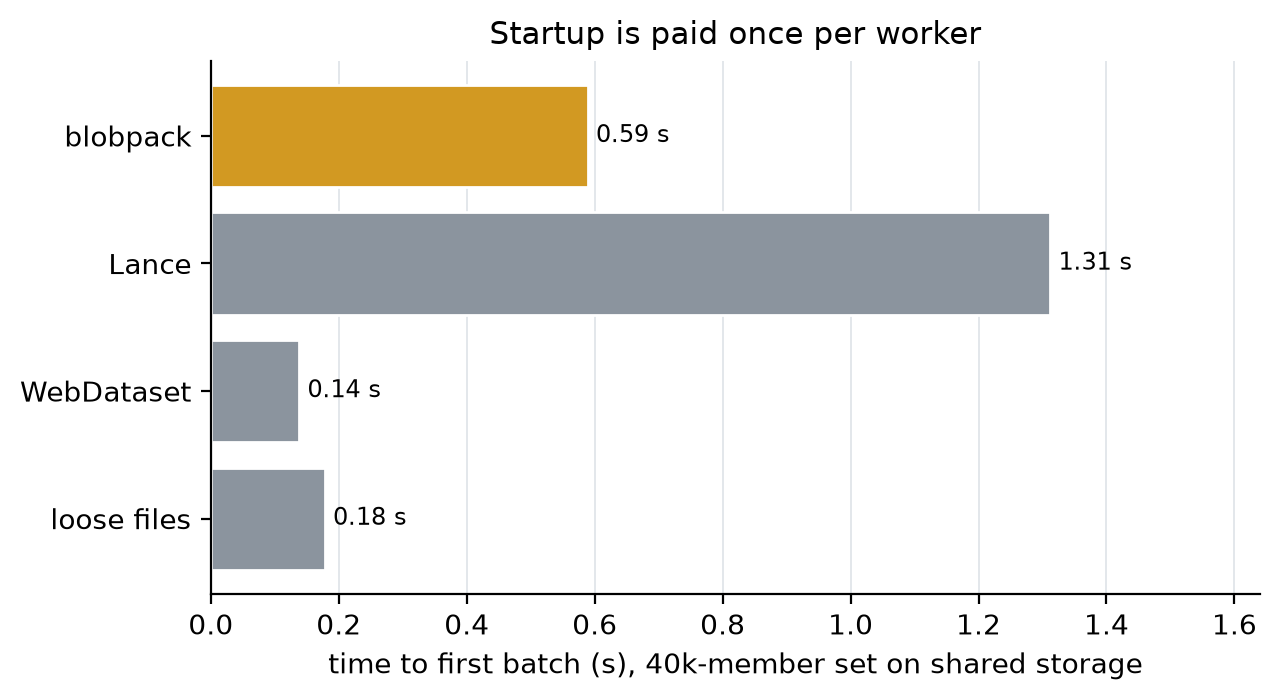
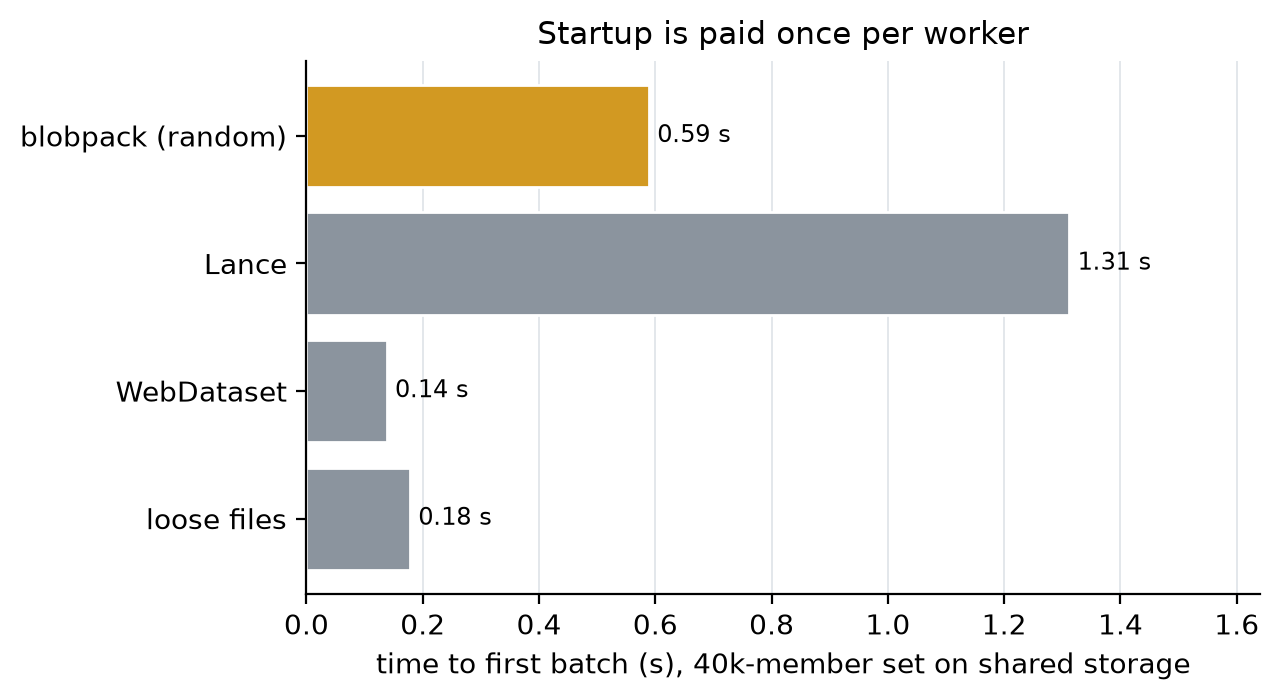
Benchmarks: random-access and streaming blobpack get their own labels and colors
Claude-Session: https://claude.ai/code/session_0161tm26fGeWCitPobobqEeE

diff --git a/benchmarks/plot_results.py b/benchmarks/plot_results.py
@@ -30,13 +30,13 @@ CASE_STYLE = {
     "lance_random": {"color": "#bf5af2", "marker": "s"},
     "wds_stream": {"color": "#2da44e", "marker": "^"},
     "pack_random": {"color": BLOBPACK, "marker": "o"},
-    "pack_stream": {"color": BLOBPACK, "marker": "^"},
+    "pack_stream": {"color": "#0a3069", "marker": "^"},  # navy: told apart from random-access blobpack
     "pack_random_validate_on_open": {"color": "#54aeff", "marker": "v"},
 }
 
 LABELS = {
     "loose_random": "loose files",
-    "pack_random": "blobpack",
+    "pack_random": "blobpack (random)",
     "pack_random_validate_on_open": "blobpack, validate_on_open",
     "lance_random": "Lance",
     "wds_stream": "WebDataset",
